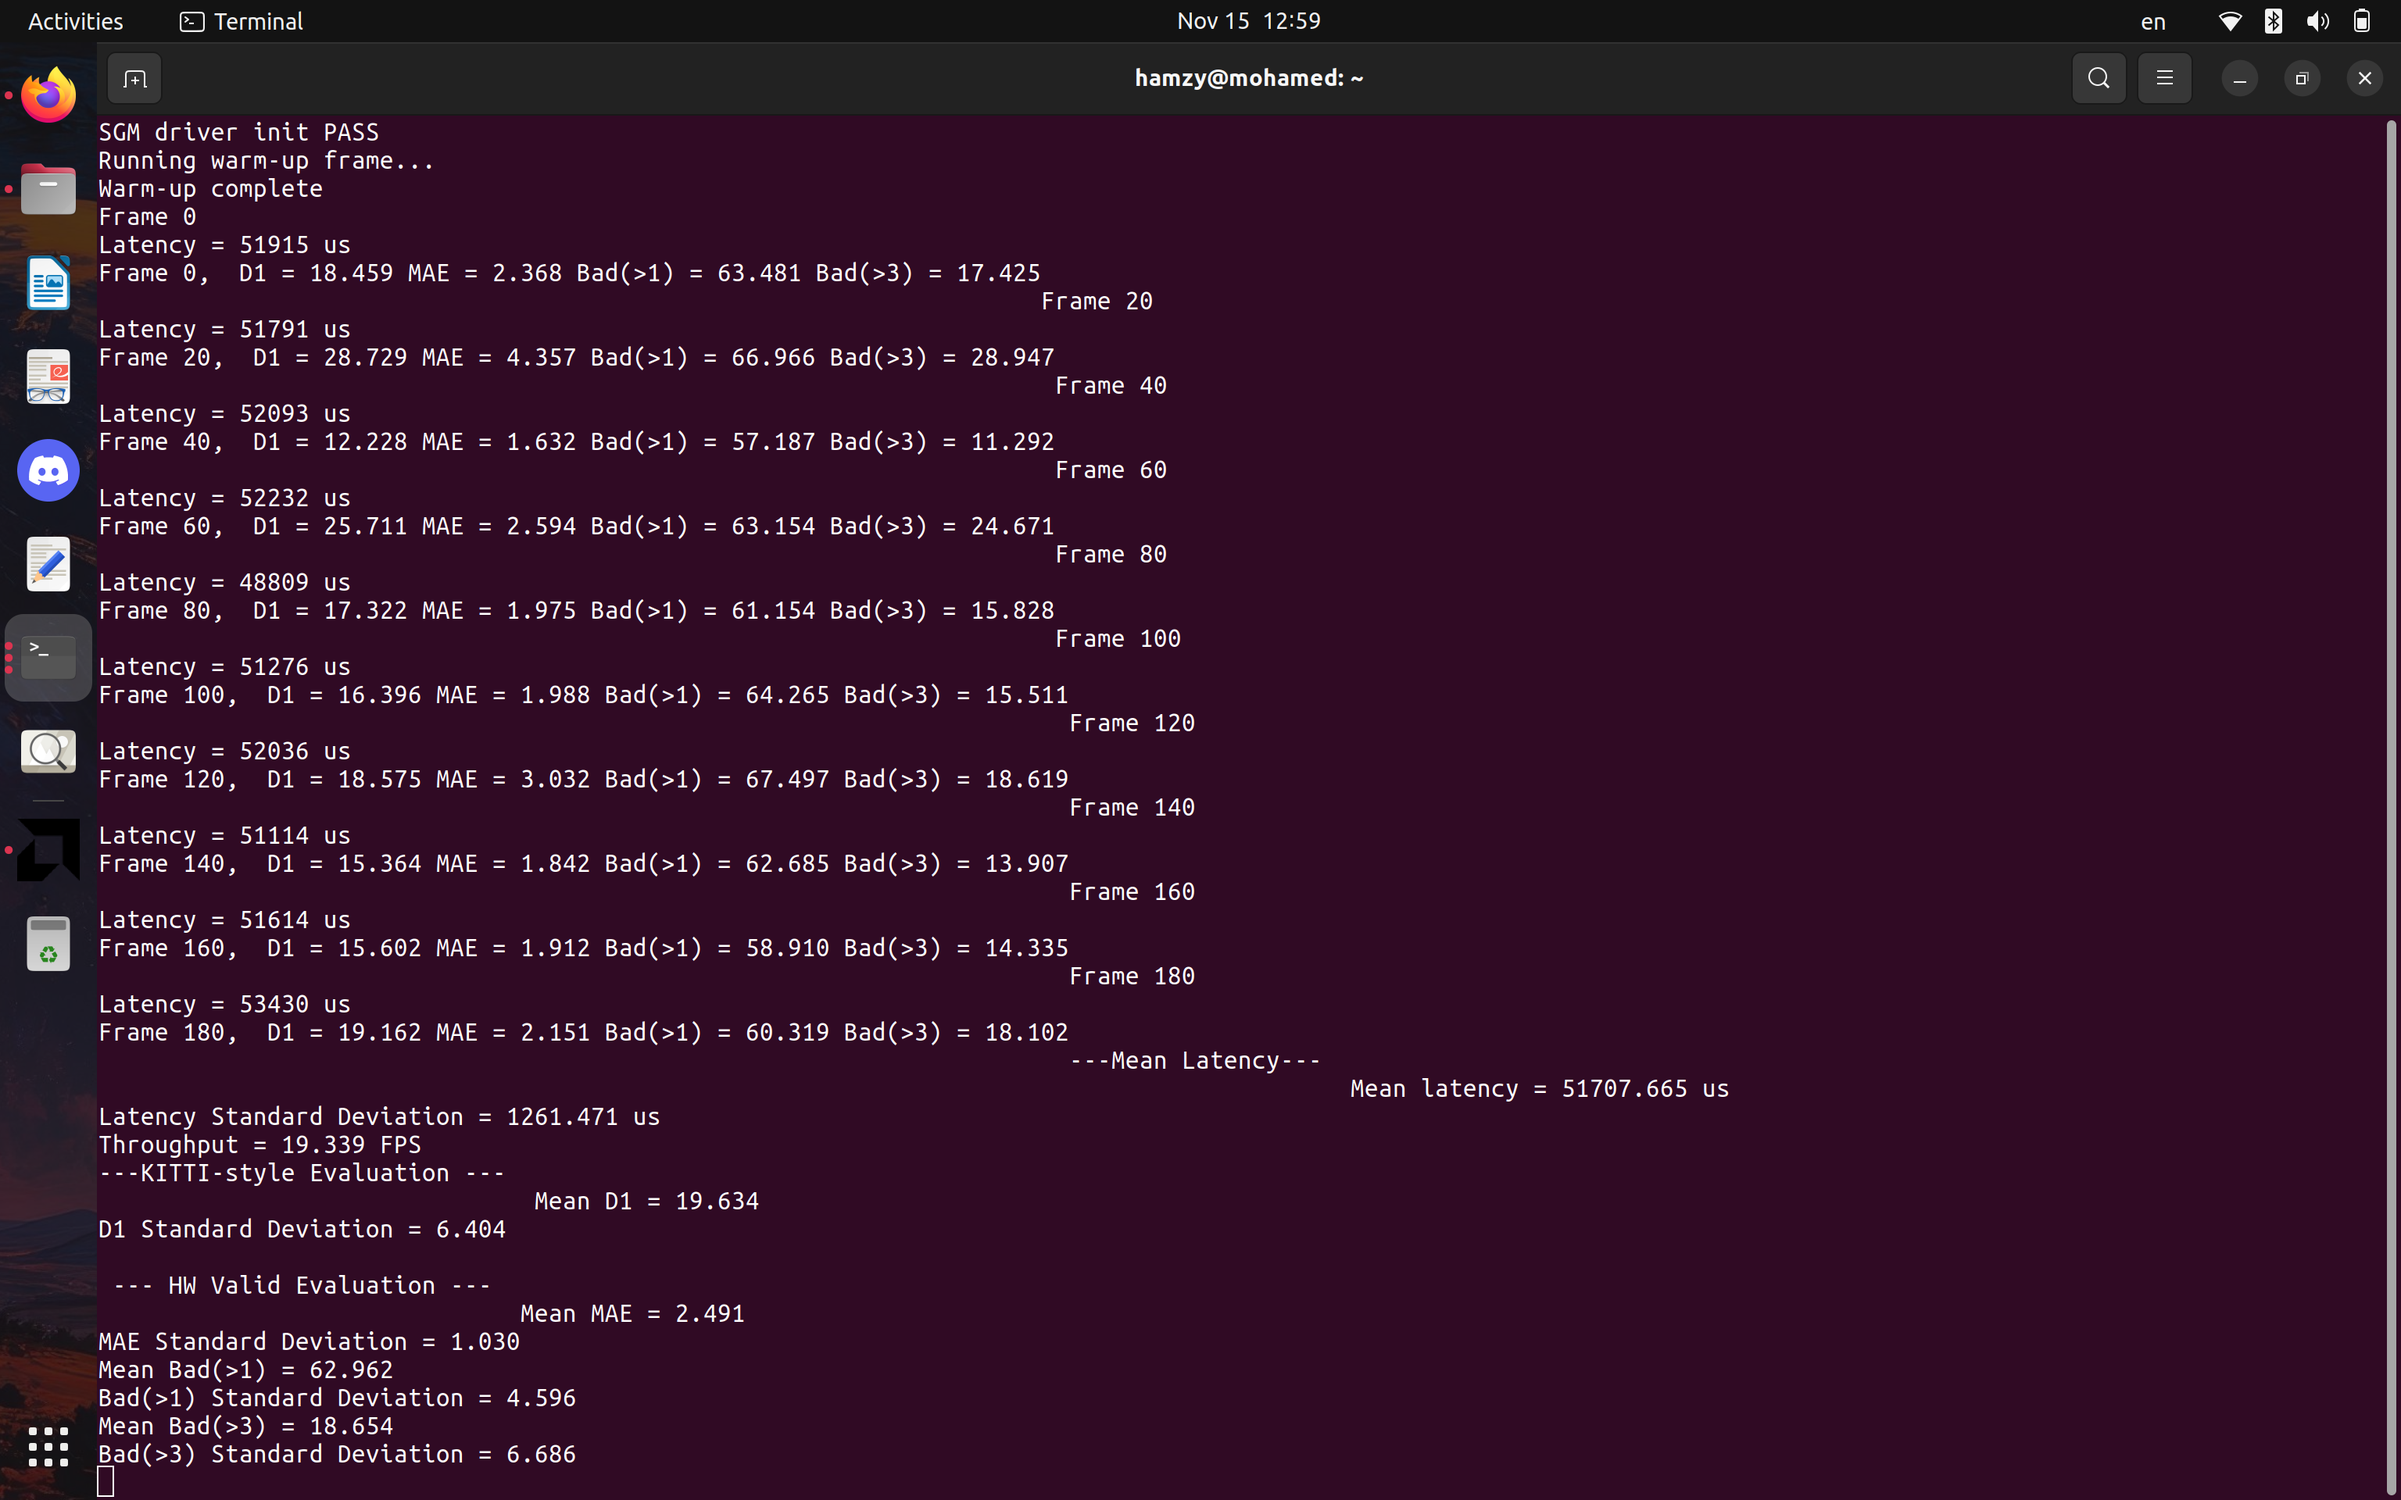
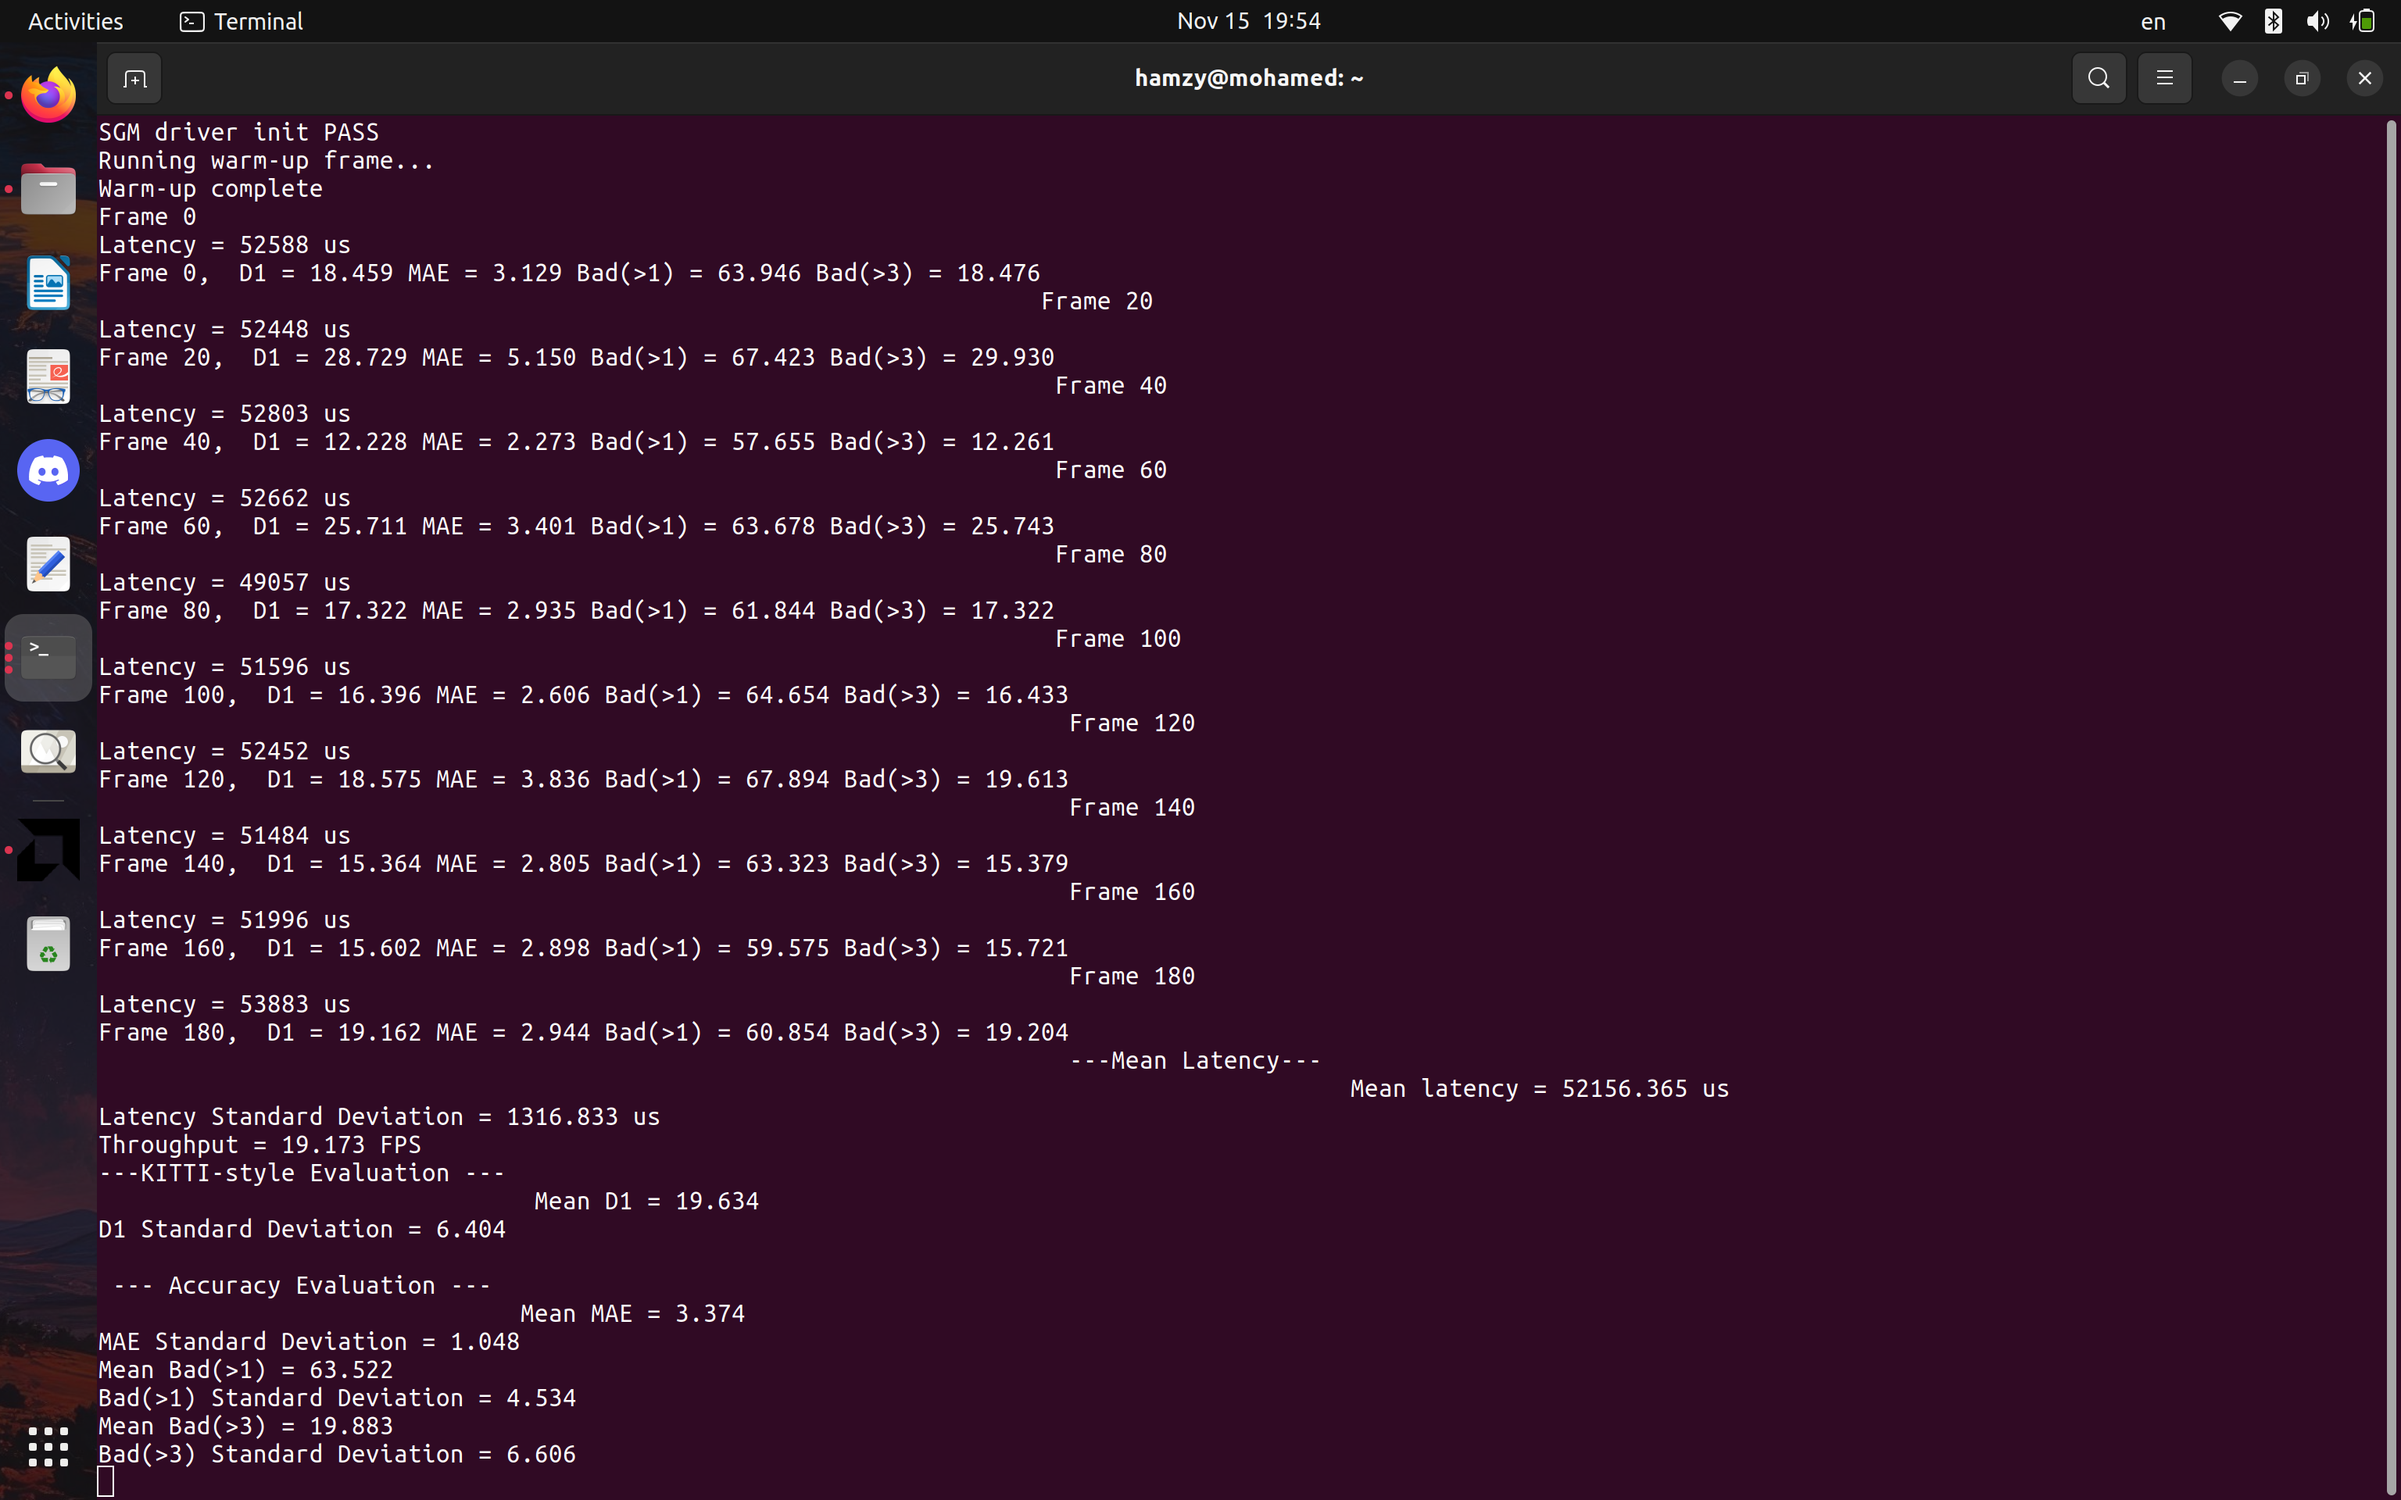
main: update accuracy metrics evaluation criteria to be on all valid GT pixels

diff --git a/ps_profile/main.cpp b/ps_profile/main.cpp
@@ -10,7 +10,7 @@
 #include "dataset_frames.hpp"
 
 #define CHECK_OUTPUT	0
-#define PROFILE_STAGES	1
+#define PROFILE_STAGES	0
 
 #define LEFT_BRAM_BASE 	XPAR_AXI_BRAM_CTRL_0_S_AXI_BASEADDR
 #define RIGHT_BRAM_BASE XPAR_AXI_BRAM_CTRL_1_S_AXI_BASEADDR
@@ -65,12 +65,10 @@ int main ()
 {
 	/* Evaluation metrics */
 	int kitti_valid_frame = 0;
-	int hw_valid_frame = 0;
 
 	double total_kitti_d1_error = 0;
 	double total_mae = 0;
 	double total_Bad1_error = 0, total_Bad3_error = 0;
-	int invalid_selected_count = 0;
 
 	uint64_t total_latency = 0;
 
@@ -87,15 +85,8 @@ int main ()
 	static double bad3_per_frame[NUM_FRAMES];
 	static uint32_t latency_per_frame[NUM_FRAMES];
 
-	const int cx = WIN >> 1;
-	const int cy = WIN >> 1;
-
 	static uint8_t disp_img[IMG_H][IMG_W];
 	static uint8_t disp_post[IMG_H][IMG_W];
-
-	const int valid_r_min = WIN - 1 - cy;
-	const int valid_r_max = IMG_H - 1 - cy;
-	const int valid_c_max = IMG_W - cx;
 
 	xil_printf("Starting Variant C - PL-PS SGM + median evaluation... \r\n");
 
@@ -274,7 +265,6 @@ XTime t0, t1;
 	        checksum += disp_post[r][c];
 	    }
 	}
-
 	xil_printf("checksum = %u\r\n", (unsigned int)checksum);
 
 #endif
@@ -282,8 +272,6 @@ XTime t0, t1;
 	int kitti_d1_err = 0;
 	int kitti_valid_count = 0;
 	int kitti_invalid_count = 0;
-
-	int hw_valid_count = 0, hw_invalid_count = 0;
 
 	int bad1 = 0, bad3 = 0;
 	double sum_abs_err = 0.0;
@@ -295,9 +283,6 @@ XTime t0, t1;
 			float gt_disp = gt_frames[i][r][c];
 			float est_disp = disp_post[r][c];
 
-			if(r >= valid_r_min && est_disp > c)
-				++invalid_selected_count;
-
 			bool gt_valid = gt_disp > 0.0f;
 			if(!gt_valid)
 			{
@@ -308,6 +293,11 @@ XTime t0, t1;
 			++kitti_valid_count;
 			float err = (std::abs(est_disp - gt_disp)) / scale_x;
 
+	    	sum_abs_err += err;
+	    	if (err > 1.0f) bad1++;
+	    	if (err > 3.0f) bad3++;
+
+
 			/* Kitt-style D1 */
 			bool abs_error_gt3 = err > 3.0f;
 			bool rel_error_gt5 = ((err / (gt_disp/scale_x)) > 0.05f);
@@ -316,25 +306,6 @@ XTime t0, t1;
 			{
 				++kitti_d1_err;
 			}
-
-	        bool roi_valid = (r >= valid_r_min) && (r <= valid_r_max)
-	        		&& (c < valid_c_max);
-
-	        bool disp_range_valid = (gt_disp < DISP) && (gt_disp <= c);
-
-	        bool hw_valid = roi_valid && disp_range_valid;
-
-	    	if(!hw_valid)
-	    	{
-	    		++hw_invalid_count;
-	    	}
-	    	else
-	    	{
-		    	++hw_valid_count;
-		    	sum_abs_err += err;
-		    	if (err > 1.0f) bad1++;
-		    	if (err > 3.0f) bad3++;
-	    	}
 	    }
 	}
 	double current_kitti_error = 0.0f;
@@ -347,28 +318,19 @@ XTime t0, t1;
     	current_kitti_error = (100.0 * kitti_d1_err / kitti_valid_count);
     	++kitti_valid_frame;
     	total_kitti_d1_error += current_kitti_error;
-    }
-    else
-    {
-        xil_printf( "ERROR: No KITTI-valid GT pixels at frame %d\n", i);
-        return 5;
-    }
 
-    if(hw_valid_count > 0)
-    {
-    	++hw_valid_frame;
-    	current_mae = (sum_abs_err / hw_valid_count);
-		current_bad1 = (100.0 * bad1 / hw_valid_count);
-		current_bad3= (100.0 * bad3 / hw_valid_count);
+    	current_mae = (sum_abs_err / kitti_valid_count);
+		current_bad1 = (100.0 * bad1 / kitti_valid_count);
+		current_bad3= (100.0 * bad3 / kitti_valid_count);
 
 		total_mae += current_mae;
 		total_Bad1_error += current_bad1;
 		total_Bad3_error +=current_bad3;
     }
-    if (hw_valid_count == 0)
+    else
     {
-        xil_printf("ERROR: No HW-valid GT pixels for comparison at frame: %d\n", i);
-        return 6;
+        xil_printf( "ERROR: No KITTI-valid GT pixels at frame %d\n", i);
+        return 5;
     }
 
 	d1_per_frame[i] = current_kitti_error;
@@ -395,15 +357,7 @@ XTime t0, t1;
     	xil_printf("ERROR: GT validity counts do not match image "
     			"size at frame: %d\n", i);
     }
-
-    if((hw_invalid_count + hw_valid_count) != kitti_valid_count)
-    {
-    	xil_printf ("ERROR: HW-valid + HW-excluded counts do not match"
-    			" KITTI-valid count at frame: %d", i);
-    }
-
-
-	}
+}
 ////////////////////////////////////////////////////////////////////////////////
 	/////////////////////////////////////////////////////////////////
 		if(NUM_FRAMES > 0)
@@ -468,7 +422,6 @@ XTime t0, t1;
 	    	uint32_t pct_median_x100	= (uint32_t)(100.0 * pct_median);
 
 
-
 	    	uint32_t input_x1000    	= (uint32_t)(1000.0 * avg_input_ms);
 	    	uint32_t pl_ms_x1000 		= (uint32_t)(1000.0 * avg_pl_ms);
 	    	uint32_t output_ms_x1000	= (uint32_t)(1000.0 * avg_output_ms);
@@ -498,8 +451,6 @@ XTime t0, t1;
 	    			median_ms_x1000/1000, median_ms_x1000%1000);
 	    	xil_printf("Share = %u.%02u %%\r\n",
 	    			pct_median_x100/100, pct_median_x100%100);
-
-
 	#endif
 		}
 
@@ -524,17 +475,17 @@ XTime t0, t1;
 	    	xil_printf("D1 Standard Deviation = %u.%03u\r\n", std_d1_x1000/1000, std_d1_x1000%1000);
 		}
 
-		if(hw_valid_frame > 0)
+		if(kitti_valid_frame > 0)
 		{
-			xil_printf("\n --- HW Valid Evaluation --- \n ");
+			xil_printf("\n --- Accuracy Evaluation --- \n ");
 
-			double mean_mae = total_mae / hw_valid_frame;
+			double mean_mae = total_mae / kitti_valid_frame;
 			double mae_squared_diff_sum = 0.0;
 
-			double mean_bad1 = total_Bad1_error / hw_valid_frame;
+			double mean_bad1 = total_Bad1_error / kitti_valid_frame;
 			double bad1_squared_diff_sum = 0.0;
 
-			double mean_bad3 = total_Bad3_error / hw_valid_frame;
+			double mean_bad3 = total_Bad3_error / kitti_valid_frame;
 			double bad3_squared_diff_sum = 0.0;
 
 			for(int i = 0; i < NUM_FRAMES; ++i)
@@ -550,9 +501,9 @@ XTime t0, t1;
 				double bad3_diff = bad3_per_frame[i] - mean_bad3;
 				bad3_squared_diff_sum += bad3_diff * bad3_diff;
 			}
-			double std_mae = std::sqrt(mae_squared_diff_sum / hw_valid_frame);
-			double std_bad1 = std::sqrt(bad1_squared_diff_sum / hw_valid_frame);
-			double std_bad3 = std::sqrt(bad3_squared_diff_sum / hw_valid_frame);
+			double std_mae = std::sqrt(mae_squared_diff_sum / kitti_valid_frame);
+			double std_bad1 = std::sqrt(bad1_squared_diff_sum / kitti_valid_frame);
+			double std_bad3 = std::sqrt(bad3_squared_diff_sum / kitti_valid_frame);
 
 	        unsigned int mean_mae_x1000  = (unsigned int)((mean_mae * 1000.0));
 	        unsigned int std_mae_x1000  = (unsigned int)((std_mae * 1000.0));
